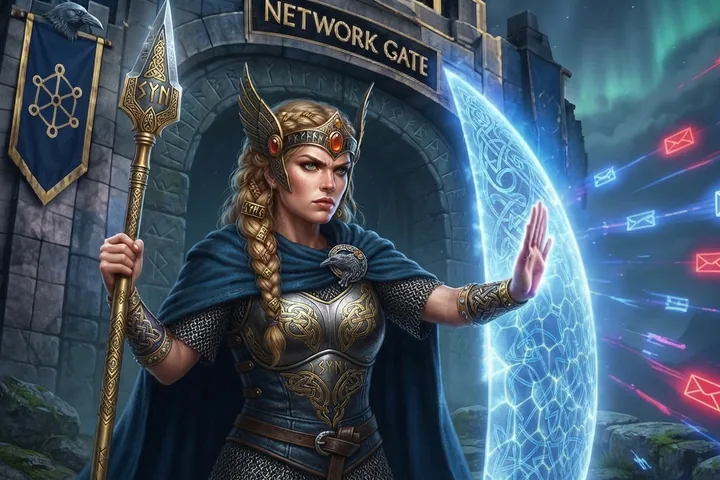
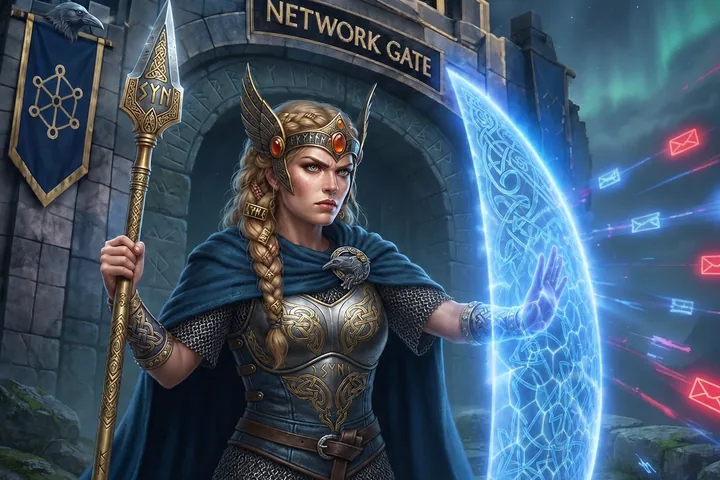
advice.py: input signature uses SHA-256 instead of SHA-1 (security scan). Also ships the pending login-art update from another session: glow variants of the Syn login and Pages hero images (syn-login-glow.webp, syn-hero-glow.webp), refreshed syn.webp / syn-guardian.webp / syn-hero.webp, login.html, 
Tests: Ran 1258 tests in 146.336s OK (expected failures=3)

Security scan: {"total_raw": 351, "accepted": 350, "open": 1, "new": 0, "fixed": 2, "notified": 0, "high": 0, "new_high": 0}

diff --git a/docs/index.html b/docs/index.html
@@ -52,6 +52,7 @@ h1 em{font-style:normal;color:var(--gold)}
 .btn:hover{text-decoration:none;border-color:#3a3a40}
 .btn.gold{background:linear-gradient(180deg,var(--gold2),var(--gold));color:#1a1408;border-color:transparent}
 .hero-art{border-radius:20px;overflow:hidden;border:1px solid var(--line);box-shadow:0 30px 80px rgba(0,0,0,.55),0 0 0 1px rgba(217,182,93,.08)}
+.hero-art picture{display:block}
 .hero-art img{width:100%;height:auto;aspect-ratio:3/2}
 .chips{display:flex;flex-wrap:wrap;gap:8px;margin-top:22px}
 .chip{font-size:13px;color:var(--muted);border:1px solid var(--line);border-radius:999px;padding:4px 12px;background:var(--bg2)}
@@ -197,7 +198,8 @@ footer img{width:26px;height:26px;border-radius:6px}
       </div>
     </div>
     <div class="hero-art">
-      <img src="images/syn-hero.webp" width="1200" height="800" alt="Syn, the Norse door-guard goddess, at the network gate holding up a glowing shield that stops incoming packets" fetchpriority="high">
+      <picture><source media="(prefers-reduced-motion: no-preference)" srcset="images/syn-hero-glow.webp" type="image/webp">
+      <img src="images/syn-hero.webp" width="1200" height="800" alt="Syn, the Norse door-guard goddess, at the network gate holding up a glowing shield that stops incoming packets" fetchpriority="high"></picture>
     </div>
   </div>
 </section>

diff --git a/dashboard/app/static/login.html b/dashboard/app/static/login.html
@@ -9,7 +9,8 @@
 <body>
 <div style="max-width:360px;margin:12vh auto;padding:0 16px">
   <div class="syn-wordmark-row"><img class="syn-wordmark" src="/valk-wordmark.webp" width="88" height="119" alt="Syn"><div class="muted">network defender</div></div>
-  <img class="syn-hero" src="/syn.webp?v=3" width="720" height="480" alt="Syn, guardian of the network gate, holding back packets with her shield">
+  <picture><source media="(prefers-reduced-motion: no-preference)" srcset="/syn-login-glow.webp?v=4" type="image/webp">
+  <img class="syn-hero" src="/syn.webp?v=4" width="720" height="480" alt="Syn, guardian of the network gate, holding back packets with her glowing shield"></picture>
   <form id="f" class="card" autocomplete="on" method="post" action="/api/login">
     <h2>Sign in</h2>
     <label class="k small" for="u">Username</label>

diff --git a/dashboard/app/static/index.html b/dashboard/app/static/index.html
@@ -18,8 +18,8 @@
      (header, nav, skeleton cards) shows around it; the art is a full scene, so it sits in a rounded, shadowed card. -->
 <div id="synSplash" class="syn-splash" role="status" aria-label="Loading Syn">
   <figure class="syn-splash-card">
-  <picture><source media="(prefers-reduced-motion: no-preference)" srcset="/syn-guardian.webp?v=3" type="image/webp">
-  <img class="syn-hero" src="/syn.webp?v=3" width="508" height="337" alt="Syn, guardian of the network gate"></picture>
+  <picture><source media="(prefers-reduced-motion: no-preference)" srcset="/syn-guardian.webp?v=4" type="image/webp">
+  <img class="syn-hero" src="/syn.webp?v=4" width="508" height="338" alt="Syn, guardian of the network gate"></picture>
   <figcaption class="muted small">Syn is opening the gate…</figcaption>
   </figure>
 </div>

diff --git a/dashboard/app/server.py b/dashboard/app/server.py
@@ -1081,7 +1081,7 @@ class H(BaseHTTPRequestHandler):
     COOKIE = "netmon_session"
     PUBLIC = {"/login", "/login.html", "/login.js", "/style.css", "/healthz", "/api/login",
               "/sw.js", "/manifest.json", "/valk-icon-192.png", "/valk-icon-512.png",
-              "/syn.webp", "/syn-guardian.webp", "/valk-head.png", "/valk-wordmark.webp"}  # PWA shell: no data in these
+              "/syn.webp", "/syn-guardian.webp", "/syn-login-glow.webp", "/valk-head.png", "/valk-wordmark.webp"}  # PWA shell: no data in these
 
     def _user(self):
         c = SimpleCookie(self.headers.get("Cookie", ""))

diff --git a/dashboard/app/advice.py b/dashboard/app/advice.py
@@ -112,7 +112,7 @@ def _prompt(a, cl, note, dev):
 
 def _sig(a, cl, note):
     raw = json.dumps([a.get("text"), cl.get("label"), cl.get("reason"), (note or {}).get("verdict"), (note or {}).get("summary")])
-    return hashlib.sha1(raw.encode()).hexdigest()[:16]
+    return hashlib.sha256(raw.encode()).hexdigest()[:16]
 
 
 def advise(target, a, cl, note=None, dev=""):
